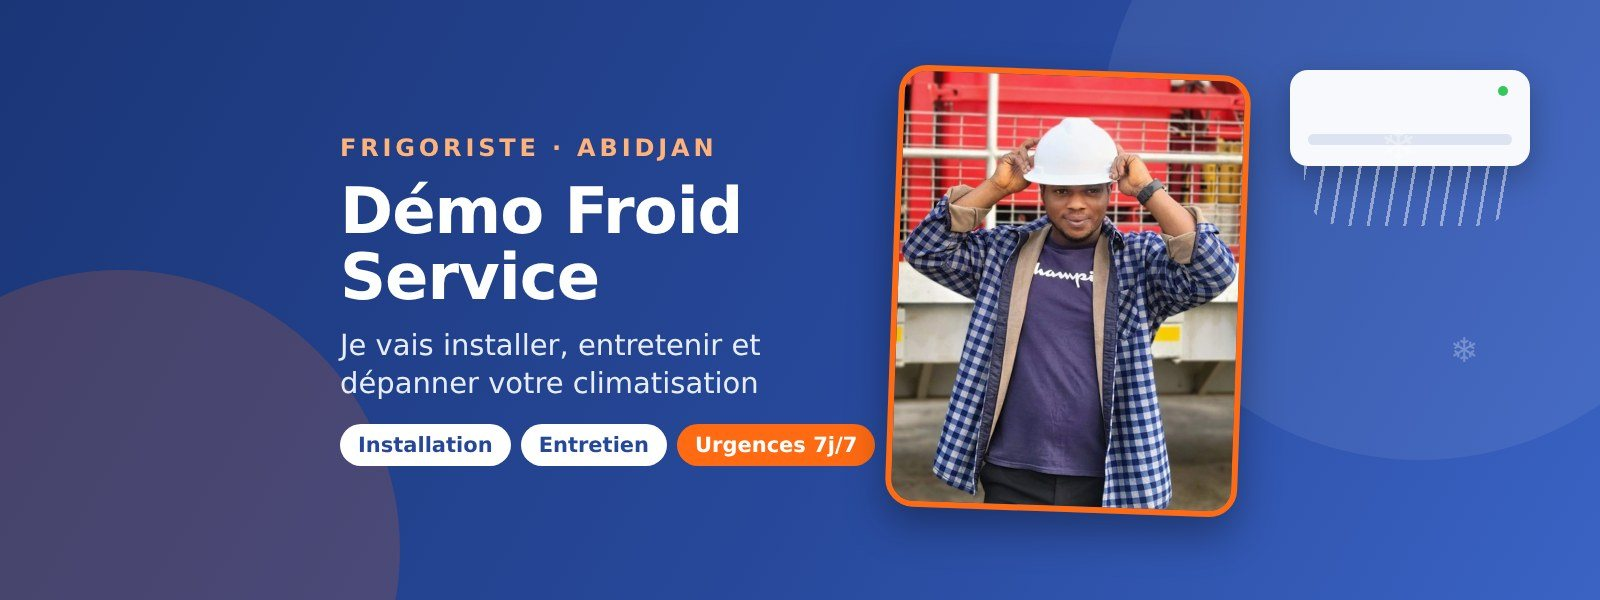
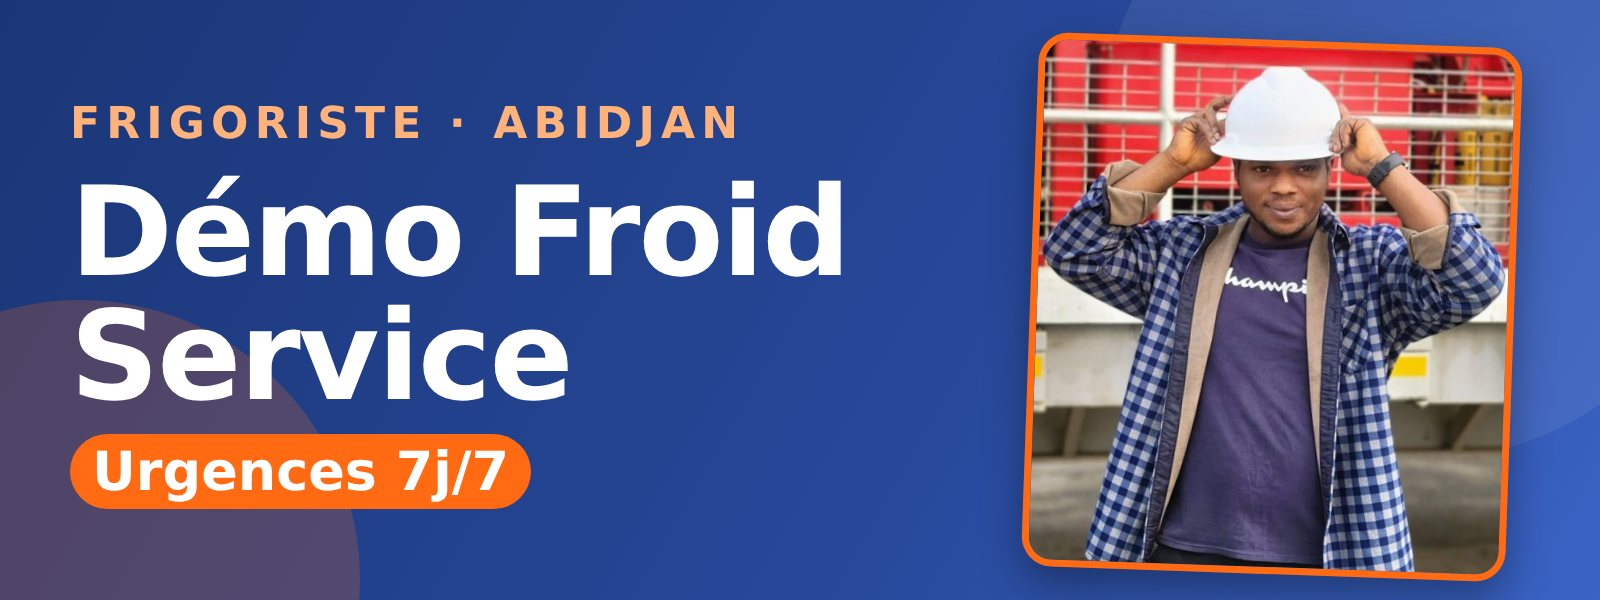
Cartes : cover affichée en entier (8:3) et lisible, badges sous la cover, grille plus large ; format de cover resserré ; accueil compact sans photo sur mobile ; nouvelle cover de démo à gros texte
Claude-Session: https://claude.ai/code/session_01FCo9WpEwssaRzwERByp9oM

diff --git a/src/app/globals.css b/src/app/globals.css
@@ -145,11 +145,11 @@ textarea{min-height:96px;resize:vertical}.hint{font-size:13px;color:var(--ink-mu
 /* Mobile : cibles tactiles, lisibilité, pas de zoom iOS */
 input,select,textarea{font-size:16px}
 a,button,summary,label{-webkit-tap-highlight-color:transparent}
-.hero2{grid-template-areas:"intro photo" "trust photo" "form form"}.heroin{grid-area:intro}.heroform{grid-area:form}.trust{grid-area:trust}.heroimg{grid-area:photo}
+.hero2{grid-template-areas:"intro photo" "form photo" "trust photo"}.heroin{grid-area:intro}.heroform{grid-area:form}.trust{grid-area:trust}.heroimg{grid-area:photo;align-self:center}
 .opts.two{grid-template-columns:repeat(auto-fit,minmax(150px,1fr))}
 .mbar{display:none}
 @media (max-width:860px){
-  .hero2{grid-template-columns:1fr;grid-template-areas:"intro" "photo" "form" "trust";gap:20px}
+  .hero2{grid-template-columns:1fr;grid-template-areas:"intro" "form" "trust";gap:20px}
   .btn{min-height:48px}.btn.small{min-height:44px}.chip{min-height:44px;padding:0 16px}
   .pad{padding:16px}.sec{padding-block:20px}.sec-head{margin-bottom:12px}
   h1{font-size:clamp(28px,8.5vw,38px)}h2{font-size:clamp(21px,6vw,26px)}
@@ -216,11 +216,11 @@ h1 .flag{margin-inline:2px}
 .legal a,.legal-body a{display:inline-block;padding-block:6px}
 
 /* ── Fiches artisans compactes ── */
-.cards{display:grid;grid-template-columns:repeat(auto-fill,minmax(158px,1fr));gap:12px}
+.cards{display:grid;grid-template-columns:repeat(auto-fill,minmax(260px,1fr));gap:14px}
 .acard{position:relative;display:flex;flex-direction:column;background:var(--surface-raised);border:1px solid var(--line);border-radius:var(--radius-lg);overflow:hidden;transition:box-shadow .15s,transform .15s}
 .acard:hover{box-shadow:0 6px 18px rgba(19,32,58,.12);transform:translateY(-2px)}
 .acard.sp{border-color:var(--boost);box-shadow:0 0 0 1px var(--boost)}
-.acard-media{position:relative;aspect-ratio:4/3;background:linear-gradient(135deg,var(--brand-soft),var(--surface-sunken));display:grid;place-items:center;color:var(--brand);font:700 34px var(--font-display)}
+.acard-media{position:relative;aspect-ratio:16/9;background:linear-gradient(135deg,var(--brand-soft),var(--surface-sunken));display:grid;place-items:center;color:var(--brand);font:700 34px var(--font-display)}
 .acard-media img{position:absolute;inset:0;width:100%;height:100%;object-fit:cover}
 .acard-flag{position:absolute;top:8px;left:8px;padding:2px 8px;border-radius:var(--radius-pill);background:var(--boost);color:var(--on-boost);font-size:11px;font-weight:700}
 .acard-badges{position:absolute;left:8px;bottom:8px;right:8px;display:flex;flex-wrap:wrap;gap:4px}
@@ -236,7 +236,7 @@ h1 .flag{margin-inline:2px}
 .acard-cta .btn{min-height:40px;padding:0 10px;font-size:14px}
 .acard-cta .wa{flex:1;background:#1f9d57;border-color:#1f9d57;color:#fff}
 .acard-cta .call{flex:none;width:44px;padding:0}
-@media (min-width:700px){.cards{grid-template-columns:repeat(auto-fill,minmax(210px,1fr));gap:16px}.acard h3{font-size:16px}}
+@media (min-width:700px){.cards{gap:16px}.acard h3{font-size:16px}}
 
 .acard-open{display:flex;align-items:center;gap:6px;font-size:12.5px;font-weight:600;color:var(--ink-muted)}
 .acard-open i{width:8px;height:8px;border-radius:50%;background:var(--border-strong);flex:none}
@@ -369,10 +369,10 @@ h1 .flag{margin-inline:2px}
 .pfhead.hascover{padding-top:0;overflow:hidden}.pfhead.hascover .pfcover{flex:0 0 calc(100% + 40px);margin-bottom:0}
 .pfhead.hascover .pfphoto{margin-top:-52px;border:4px solid var(--surface-raised);box-shadow:var(--shadow-sm,0 2px 8px rgba(0,0,0,.15))}
 .gal{display:grid;grid-template-columns:repeat(auto-fill,minmax(150px,1fr));gap:8px}.gal a{display:block;aspect-ratio:4/3;border-radius:var(--radius-md);overflow:hidden;background:var(--surface-sunken)}.gal img{width:100%;height:100%;object-fit:cover;display:block;transition:transform .2s}.gal a:hover img{transform:scale(1.04)}
-.acard-media.cov .acard-badges{right:62px}
+.acard-media.cov .acard-badges{left:10px;right:62px;bottom:auto;top:calc(100% + 8px)}
 .acard-media .acard-av{position:absolute;right:10px;bottom:-14px;width:44px;height:44px;border-radius:50%;border:3px solid var(--surface-raised);overflow:hidden;background:var(--brand-soft);display:grid;place-items:center;font:700 15px var(--font-display);color:var(--brand);z-index:2}
 .acard-media .acard-av img{position:static;width:100%;height:100%}
-.acard-media.cov{aspect-ratio:3/2;overflow:visible}.acard-media.cov>img{border-radius:var(--radius-lg) var(--radius-lg) 0 0}.acard-media.cov~.acard-body{padding-top:20px}
+.acard-media.cov{aspect-ratio:8/3;overflow:visible}.acard-media.cov>img{border-radius:var(--radius-lg) var(--radius-lg) 0 0}.acard-media.cov~.acard-body{padding-top:42px}
 
 .hl{display:flex;align-items:center;border:1px solid var(--border-strong);border-radius:var(--radius-md);background:var(--surface-raised);overflow:hidden}
 .hl span{padding:0 4px 0 12px;font-weight:700;color:var(--brand);white-space:nowrap}.hl input{border:0!important;box-shadow:none!important;min-width:0;flex:1;padding-left:6px}
@@ -408,5 +408,5 @@ h1 .flag{margin-inline:2px}
 .heroimg img{display:block;width:100%;height:100%;object-fit:cover}
 .bandimg{display:block;width:100%;height:auto;aspect-ratio:4/3;object-fit:cover;border-radius:var(--radius-lg)}
 @media(min-width:861px){.heroform{display:grid;grid-template-columns:1fr 1fr auto;gap:14px;align-items:end}.heroform h2{grid-column:1/-1}.heroform .btn{min-width:180px}}
-@media(max-width:860px){.heroimg{width:100%;max-height:none;aspect-ratio:16/10;justify-self:stretch}.heroimg img{object-position:50% 18%}.bandimg{aspect-ratio:16/10;object-position:50% 25%}}
-@media(min-width:861px){.heroin{align-self:end}.trust{align-self:start}}
+@media(max-width:860px){.heroimg{display:none}.bandimg{aspect-ratio:16/10;object-position:50% 25%}}
+@media(min-width:861px){.heroin{align-self:end}.trust{align-self:start}.hero2{row-gap:20px}}

diff --git a/src/components/Gallery.tsx b/src/components/Gallery.tsx
@@ -39,7 +39,7 @@ export default function Gallery({ uid, cover, shots, max = 8, pro = false }: { u
       <div className="stack" style={{ gap: 8 }}>
         <h3 className="fh">Photo de couverture</h3>
         <div className="covprev">{cover ? <img src={cover} alt="Votre couverture" /> : <span>Aucune couverture : c’est la première chose que voient les clients. Choisissez une belle photo de votre travail, en format paysage (horizontale).</span>}</div>
-        <p className="hint">Format paysage obligatoire : idéalement <b>1600 × 600 px</b> (sur Canva : « dimensions personnalisées »). Largeur minimum 1200 px, rapport largeur/hauteur entre 1,6 et 3,2. Les images au mauvais format sont refusées automatiquement. Le texte est autorisé (nom, métier, téléphone) : placez-le au centre, car les bords sont recadrés sur les cartes de résultats. Photo nette et lumineuse.</p>
+        <p className="hint">Format paysage obligatoire : <b>1600 × 600 px</b> (sur Canva : « dimensions personnalisées »). Largeur minimum 1200 px, rapport largeur/hauteur entre 2,4 et 2,95 : les autres formats sont refusés automatiquement. La cover s’affiche en entier mais en petit sur les cartes : mettez un texte <b>court et gros</b> (nom ou métier, 90 px minimum sur 1600 px de large). Photo nette et lumineuse.</p>
         <input ref={coverRef} type="file" accept="image/*" hidden onChange={(e) => { onCover(e.target.files?.[0]); e.target.value = ""; }} />
         <div className="row"><button type="button" className="btn small primary" disabled={busy} onClick={() => coverRef.current?.click()}>{cover ? "Changer la couverture" : "Ajouter une couverture"}</button>
           {cover && <button type="button" className="btn small ghost" disabled={busy} onClick={() => run(async () => { await removeCover(); return "Couverture retirée."; })}>Retirer</button>}</div>

diff --git a/src/app/tableau-de-bord/page.tsx b/src/app/tableau-de-bord/page.tsx
@@ -259,7 +259,7 @@ export default async function Dashboard({ searchParams }: { searchParams: Promis
         </form>
         <details className="card pad tips"><summary><b>💡 Comment réussir ma fiche ?</b></summary>
           <ol>
-            <li><b>Couverture en paysage</b> : une belle image horizontale (1600 × 600 px), avec votre activité et votre nom. Gardez le texte et les éléments importants au centre : les bords sont recadrés sur les cartes.</li>
+            <li><b>Couverture en paysage</b> : une belle image horizontale (1600 × 600 px), avec votre activité et votre nom en gros caractères (90 px minimum) : sur les cartes de résultats, la cover est affichée en petit, un texte fin y serait illisible.</li>
             <li><b>3 à 8 réalisations</b> : avant/après, chantiers terminés. Les fiches avec photos reçoivent bien plus d’appels.</li>
             <li><b>Une promesse « Je vais… »</b> : « Je vais installer votre climatisation ».</li>
             <li><b>Une description concrète</b> : ce que vous faites, votre expérience, vos garanties.</li>

diff --git a/src/components/ArtisanCard.tsx b/src/components/ArtisanCard.tsx
@@ -18,8 +18,9 @@ export default function ArtisanCard({ a, country }: { a: ArtisanRow; country?: s
       <div className={`acard-media${a.cover_url ? " cov" : ""}`}>
         {a.cover_url ? <img src={a.cover_url} alt="" loading="lazy" /> : a.photo_url ? <img src={a.photo_url} alt="" loading="lazy" /> : <span aria-hidden="true">{initials(a.name)}</span>}
         {a.cover_url && <span className="acard-av">{a.photo_url ? <img src={a.photo_url} alt="" loading="lazy" /> : initials(a.name)}</span>}
-        {a.sponsored && <span className="acard-flag">Sponsorisé</span>}
+        {a.sponsored && !a.cover_url && <span className="acard-flag">Sponsorisé</span>}
         <div className="acard-badges">
+          {a.sponsored && a.cover_url && <span className="tag boost">Sponsorisé</span>}
           {a.is_pro && <span className="tag boost">Pro</span>}
           {a.verified && <span className="tag ok">✓ Vérifié</span>}
           {a.diploma_verified && <span className="tag ok">🎓 Diplômé</span>}

diff --git a/src/lib/cover-rules.ts b/src/lib/cover-rules.ts
@@ -1,5 +1,5 @@
 /** Règles de format des images publiques, partagées par le navigateur (contrôle immédiat) et le serveur (contrôle définitif). */
-export const COVER = { minWidth: 1200, minRatio: 1.6, maxRatio: 3.2, label: "1600 × 600 px" };
+export const COVER = { minWidth: 1200, minRatio: 2.4, maxRatio: 2.95, label: "1600 × 600 px" };
 export const SHOT = { minSide: 600 };
 
 export function coverProblem(w: number, h: number): "paysage" | "petite" | null {
